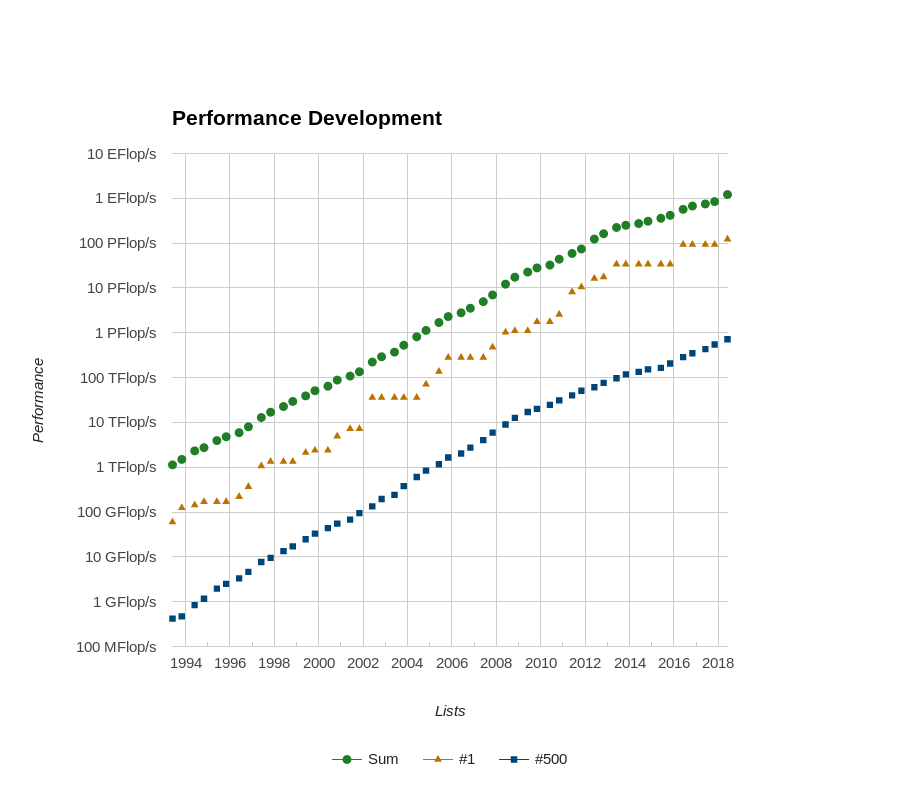
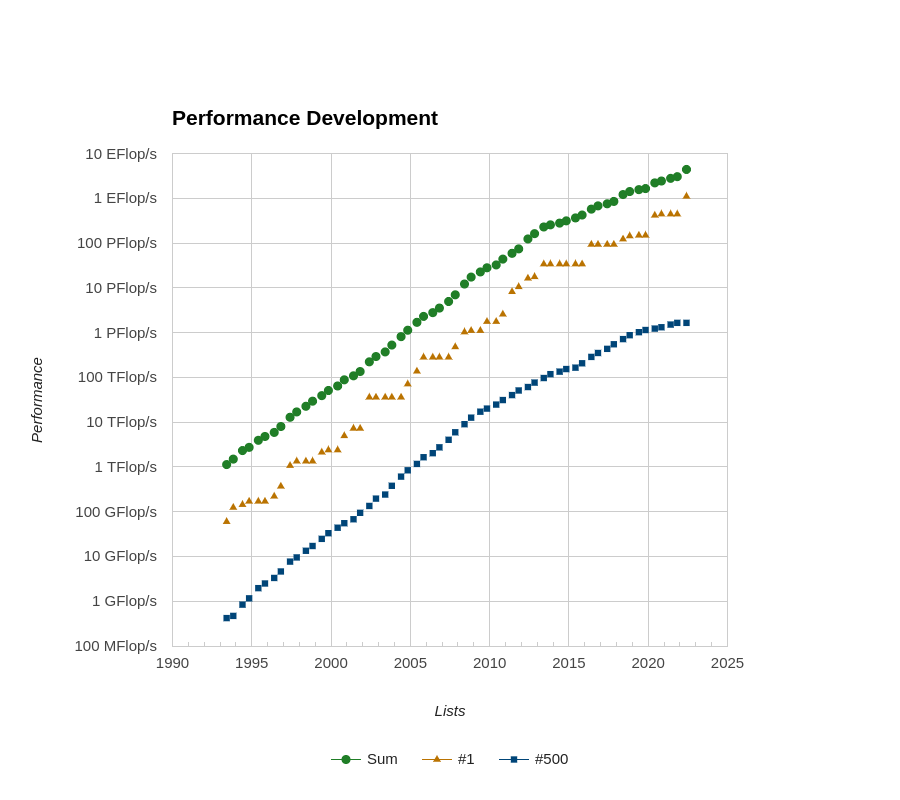
Update: Intro to HPC slides

diff --git a/intro-to-hpc/docs/01-intro-supercomputing.md b/intro-to-hpc/docs/01-intro-supercomputing.md
@@ -1,16 +1,16 @@
 ---
 title: Introduction to supercomputing
 author: CSC Summerschool
-date:   2019-06
+date:   2022-06
 lang:   en
 ---
 
 # What is high-performance computing?
 
-* Utilising computer power that is much larger than available in typical desktop computer
-* Performance of HPC system (i.e. supercomputer) is often measured in floating point operations per second (flop/s)
+* Utilising computing power that is much larger than available in typical desktop computer
+* Performance of HPC systems (i.e. supercomputers) is often measured in floating point operations per second (flop/s)
 	- For software, other measures can be more meaningful
-* Currently, the most powerful system reaches ~100 x 10^15 flop/s (100 Pflop / s)
+* Currently, the most powerful system reaches >10^18 flop/s (1 Eflop / s)
 
 # What is high-performance computing?
 
@@ -39,33 +39,32 @@ lang:   en
 </div>
 # Life sciences
 <div class=column>
-* Next-generation sequencing techniques
+* Natural language processing
 * Identifying genomic variants associated with common complex diseases
-* Understanding the natural development of diseases
+* Spreading of aerosols in the air
 * Medical imaging and diagnostics
-* Simulated surgeries
 * Predicting protein folding
 </div>
 <div class=column>
 
- ![](images/life.png){.center width=80%}
+<!-- Source: Adobe Stock, CC BY-SA 3.0 -->
+ ![](images/DeepFin.jpg){.center width=90%}
 
 </div>
 
 # Earth sciences
 <div class=column>
 * Long term climate modeling
-	- Coupling atmospheric, ocean and land models
-	- Understanding and predicting the climate change
+	- Understanding and predicting climate change
 * High-resolution weather prediction
 	- Predicting extreme weather conditions
 	- District-scale forecasts
-	- Ensembles
 * Whole-Earth seismological models
+* Modelling space weather
 </div>
 <div class=column>
- 
- ![](images/earth.png){.center width=80%}
+
+ ![](images/elmer_gis.jpg){.center width=80%}
 
 </div>
 
@@ -94,31 +93,28 @@ lang:   en
 
 
 
-# CPU frequency development 
+# CPU frequency development
 * Power consumption of CPU: `~`f^3
 
- ![](images/freq.png){.center width=60%}
+ ![](images/moore.png){.center width=45%}
 
 # Parallel processing
 
 * Modern (super)computers rely on parallel processing
-* **Multiple** CPU cores
-	- `#`1 system has `~`10 000 000 cores
+* **Multiple** CPU cores & accelerators (GPUs)
+	- `#`1 system has `~`9 000 000 cores & `~`40 000 GPUs
 * Vectorization
-	- Single instruction can process multiple data (SIMD)
+	- A single instruction can process multiple data (SIMD)
 * Pipelining
-	- Core executes different parts of instructions in parallel 
-* Accelerators
-	- GPUs
+	- Core executes different parts of instructions in parallel
 
 
-
-# Anatomy of supercomputer
+# Anatomy of a supercomputer
 
 * Supercomputers consist of nodes connected with high-speed network
-	- Latency `~`1 µs, bandwidth `~`10 GB / s
+	- Latency `~`1 µs, bandwidth `~`20 GB / s
 * A node can contain several multicore CPUS
-* Additionally, node can contain one or more accelerators
+* Additionally, a node can contain one or more accelerators
 * Memory within the node is directly usable by all CPU cores
 
 
@@ -168,7 +164,7 @@ lang:   en
 # Computing in parallel
 * Parallel computing
 	- A problem is split into smaller subtasks
-	- Multiple subtasks are processed simultaneously using multiple cores<Paste>
+	- Multiple subtasks are processed simultaneously using multiple cores
 
  ![](images/compp.svg){.center width=40%}
 
@@ -233,12 +229,17 @@ lang:   en
 
 # What limits parallel scaling
 
+<div width=55% class=column>
 * Load imbalance
 	- Distribution of workload to different cores varies
 * Parallel overheads
 	- Additional operations which are not present in serial calculation
 	- Synchronization, redundant computations, communications
 * Amdahl’s law: the fraction of non-parallelizable parts establishes the limit on how many cores can be harnessed
+</div>
+<div width=40% class=column>
+  ![](images/AmdahlsLaw.svg){.right width=100%}
+</div>
 
 
 # Parallel programming {.section}
@@ -264,14 +265,13 @@ lang:   en
 	- OpenMP, pthreads
 
 
-
 # Parallel programming models
 
  ![](images/processes-threads.svg){.center width=80%}
 <div class=column>
-**MPI: Processes** 
+**MPI: Processes**
 
-* Independent execution units 
+* Independent execution units
 * MPI launches N processes at application startup
 * Works over multiple nodes
 </div>
@@ -285,20 +285,23 @@ lang:   en
 
 </div>
 
+# Parallel programming models
+
+![](images/anatomy.svg){.center width=100%}
+
 # Future of High-performance computing {.section}
 
 
 
-# Exascale challenge
+# Post-Exascale challenges
 
 * Performance of supercomputers has increased exponentially for a long time
-* However, there are unprecedented challenges in reaching exascale (1 x 10^18 flop/s)
-	- Power consumption: scaling current `#`1 energy efficient system would still require `~`60 MW
-	- Fault tolerance: with current technology exascale system experiences hardware failure every few hours
+* However, there are still challenges in continuing onwards from exascale supercomputers (> 1 x 10^18 flop/s)
+	- Power consumption: current `#`1 energy efficient system requires `~`20 MW for exascale performances
+	- Cost & Maintaining: Global chip shortage
 	- Application scalability: how to program for 100 000 000 cores?
 
 # Quantum computing
 * Quantum computers can solve certain types of problems exponentially faster than classical computers
 * General purpose quantum computer is still far away
 * For optimisation problems, D-Wave computer based on quantum annealing is already commercially available
-
